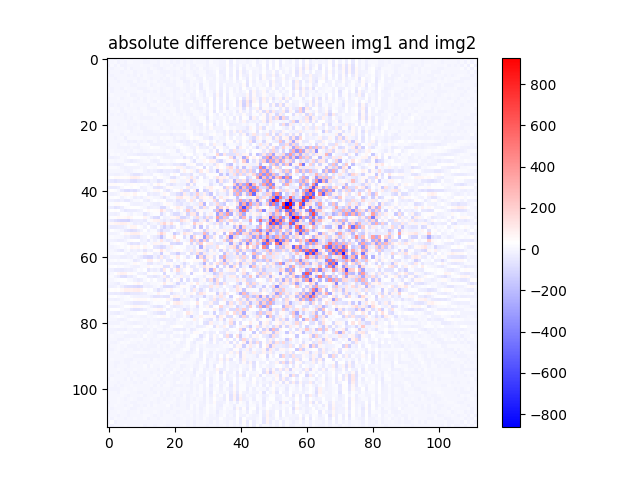
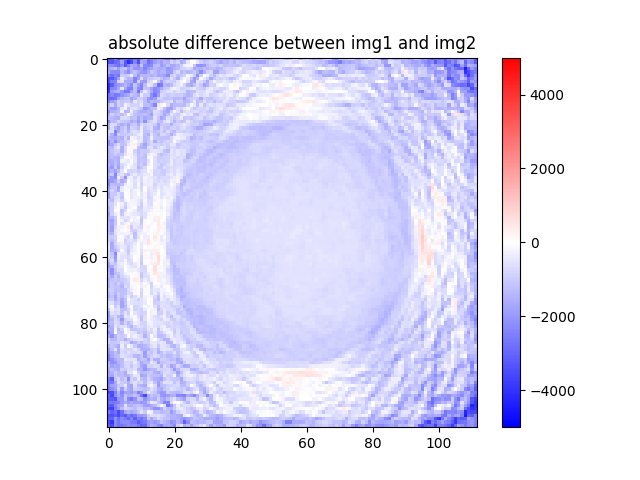
small changes

diff --git a/panel_show_merits_ADMMLim.py b/panel_show_merits_ADMMLim.py
@@ -5,10 +5,10 @@ import Tuners
 # ----------------------------------------------------------------------------------------------------------------------
 SHOW = True  # !!!!!!!!!!!!!!!!!!!!!!!!!!!!!!!!!!!!!!!!!!!!!!!!!!!!!!!!!!!!!!!!!!!!!!!!!!!!!!!!!!
 # ----------------------------------------------------------------------------------------------------------------------
-outputDatabaseNb = 14  # remember to change _squreNorm
-dataFolderPath = '->-1-2022-06-22+17-20-49+2r+new3norms+adpAT+i1+o100*100+t128+a=alphas0+mu1+tau2'
+outputDatabaseNb = '18'  # remember to change _squreNorm
+dataFolderPath = '2022-07-07+18-48-19+2r+new3norms+AdpAT+i1+o100*100+t128+a=alpha0+mu1+tau2'
 # ----------------------------------------------------------------------------------------------------------------------
-whichADMMoptimizer = Tuners.ADMMoptimizerName[4]
+whichADMMoptimizer = Tuners.ADMMoptimizerName[2]
 #                            0                   1                      2                            3                            4
 # ADMMoptimizerName = ['ADMMLim_new', 'ADMMLim_adaptiveRho', 'ADMMLim_adaptiveRhoTau', 'ADMMLim_adaptiveRhoTau-m10', 'ADMMLim_adaptiveRhoTau-mx']
 # ----------------------------------------------------------------------------------------------------------------------
@@ -18,13 +18,13 @@ OPTION = ['alphas', 'adaptiveRho', 'inner_iters', 'outer_iters', 'calculateDiffC
 tuners_tag = OPTION[option]
 # ----------------------------------------------------------------------------------------------------------------------
 innerIteration = 1
-outerIteration = 2000
+outerIteration = 100*100
 # ----------------------------------------------------------------------------------------------------------------------
-ALPHAS = Tuners.alphas0
+ALPHAS = [1]
 # ----------------------------------------------------------------------------------------------------------------------
 # calculate difference curves parameters
 inners = list(range(innerIteration))
-outers = list(range(0, outerIteration+1))
+outers = list(range(1, outerIteration+1))
 alpha = Tuners.alphas0[0]
 MODEL = 'max'
 TOGETHER = False

diff --git a/specialTasks2.py b/specialTasks2.py
@@ -1,3 +1,6 @@
+import time
+
+
 from main import specialTask
 import Tuners
 
@@ -6,12 +9,14 @@ from show_functions import moveRuns, moveData, initialALL, moveALL
 
 # ADMMoptimizerName = ['ADMMLim_new', 'ADMMLim_adaptiveRho', 'ADMMLim_adaptiveRhoTau', 'ADMMLim_adaptiveRhoTau-m10', 'ADMMLim_adaptiveRhoTau-mx'] #
 #                            0                  1                       2                           3                             4               #
-
+'''
 initialALL()
-specialTask(method_special=Tuners.ADMMoptimizerName[0],
-            inner_special=1,  # real inner
-            outer_special=100*100,
+specialTask(method_special=Tuners.ADMMoptimizerName[4],
+            inner_special=[1],  # real inner
+            outer_special=[100 * 100],
             alpha_special=Tuners.alphas0,
             replicates_special=1,
-            threads=128)  # mu= ?, tau = ?
-moveALL('+2r+new3norms+NonAdp+i1+o100*100+t128+a=alphas0+mu1+tau100')
+            threads=[128])  # mu= ?, tau = ?
+moveALL('+2r+new3norms+AdpAT+i1+o100*100+t128+a=alpha0+mu50+tau2')
+'''
+

diff --git a/specialTasks.py b/specialTasks.py
@@ -19,8 +19,10 @@ optimizer = 'ADMMi100o100a0.005'
 
 initialALL()
 timerStart = time.perf_counter()
-specialTask(DIP_special=True,
-            lr_special=Tuners.lrs1,
+specialTask(method_special='nested',
+            max_iter=[5],
+            DIP_special=True,
+            lr_special=[0.006],
             sub_iter_special=[iter],
             skip_special=[skip],
             input_special=[input],

diff --git a/diff_images.py b/diff_images.py
@@ -33,7 +33,7 @@ print("max 2 = " ,np.max(img2_np))
 
 plt.figure()
 #plt.imshow(np.abs(img1_np - img2_np), cmap='gray_r')
-plt.imshow(img1_np - img2_np, cmap='bwr')#,vmin=-5000, vmax=5000)
+plt.imshow(img1_np - img2_np, cmap='bwr', vmin=-5000, vmax=5000)
 plt.title('absolute difference between img1 and img2')
 plt.colorbar()
 plt.savefig(root+'diff_img.png')
